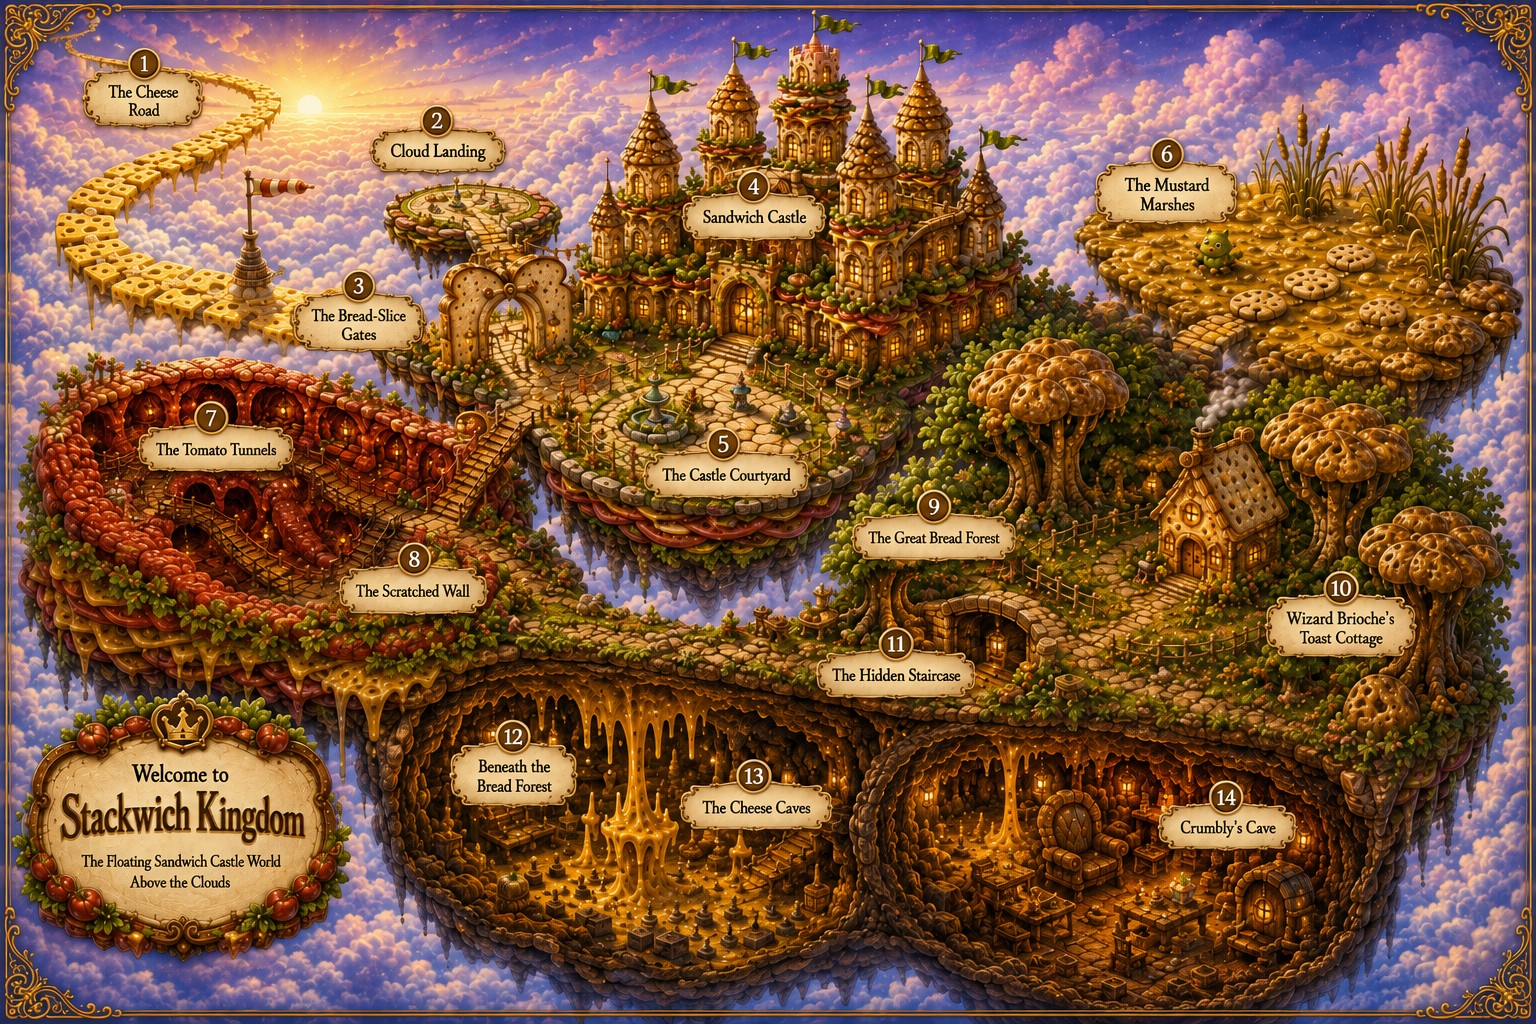
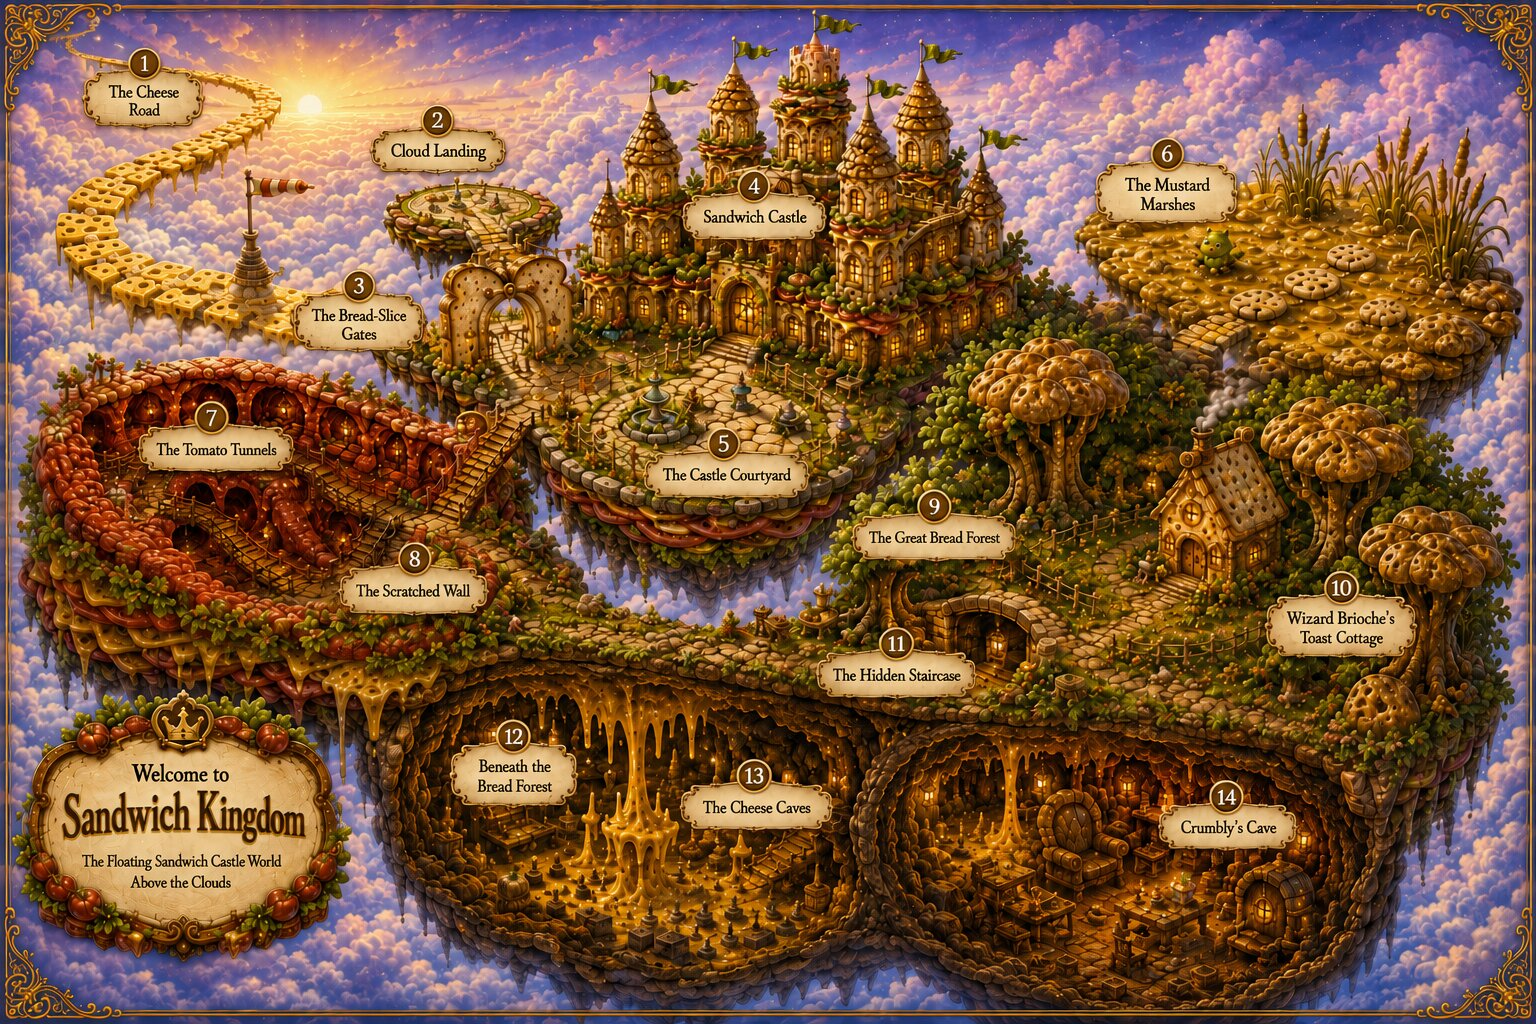
Add the full storyworld character cast

diff --git a/src/data/worldCharacters.js b/src/data/worldCharacters.js
@@ -1,0 +1,59 @@
+export const SNACKVILLE_LEGENDS = {
+  image: "/images/characters/worlds/snackville-legends.webp",
+  alt: "Pepper, Choco, the Custard Queen and Ice Cream Robots gathered in Snackville",
+  eyebrow: "Beyond the Snack Squad",
+  title: "Dragons, royalty and robots",
+  lead: "Every Piper adventure brings another unforgettable face into Snackville.",
+  people: [
+    { name: "Pepper", role: "Pizza Dragon", note: "A fearless golden-orange flyer with warm pizza-fire magic." },
+    { name: "Choco", role: "Chocolate Dragon", note: "The cocoa-scaled dragon whose home lies beyond the Chocolate Volcano." },
+    { name: "Custard Queen", role: "Royal visitor", note: "A generous queen with a crown, a custard sceptre and a kingdom to protect." },
+    { name: "Ice Cream Robots", role: "Frozen friends", note: "Scoop-headed robots waking deep inside the shimmering Ice Cream Caves." },
+  ],
+};
+
+export const CRUMBHOLLOW_CAST = {
+  image: "/images/characters/worlds/crumbhollow-crew.webp",
+  alt: "Woofer, Biscuit and three Pie-Rats beside the lantern-lit Crumbhollow canal",
+  eyebrow: "Meet the underground crew",
+  title: "The faces of Crumbhollow",
+  lead: "A hidden village needs a captain, a clever parrot and Pie-Rats who know every tunnel.",
+  people: [
+    { name: "Woofer", role: "Crumbhollow captain", note: "A green-furred pirate dog with a steady paw and a very sharp eye." },
+    { name: "Biscuit", role: "Biscuit parrot", note: "A crumb-feathered lookout who spots trouble before it reaches the docks." },
+    { name: "Grey Pie-Rat", role: "First mate", note: "Watchful, disciplined and rarely impressed by a careless crumb trail." },
+    { name: "Strong Pie-Rat", role: "Dockside muscle", note: "The barrel carrier who keeps Crumbhollow's busy harbour moving." },
+    { name: "Pancake Pirate", role: "Tunnel scout", note: "A small explorer whose pancake hat is known across the canals." },
+  ],
+};
+
+export const SANDWICH_CAST = [
+  {
+    image: "/images/characters/worlds/sandwich-royal-court.webp",
+    alt: "Sir Crumples, Queen Pickle, Crumbly, Wizard Brioche and the Sandwich Gate Guard",
+    eyebrow: "The royal court",
+    title: "Keepers of Sandwich Kingdom",
+    lead: "The castle's grandest characters each hold a different piece of its story.",
+    people: [
+      { name: "Sir Crumples", role: "Royal messenger", note: "A tiny, brave sandwich with a crown that never stays straight." },
+      { name: "Queen Pickle", role: "Sandwich Queen", note: "A warm and thoughtful ruler learning what true inclusion means." },
+      { name: "Crumbly", role: "Keeper beneath the castle", note: "A gentle giant who built the foundations and waited to be welcomed." },
+      { name: "Wizard Brioche", role: "Bread wizard", note: "A flour-dusted guide who knows the kingdom's forgotten history." },
+      { name: "Gate Guard", role: "Guardian of the gates", note: "A towering sandwich guard who always remembers good manners." },
+    ],
+  },
+  {
+    image: "/images/characters/worlds/sandwich-wilds.webp",
+    alt: "The Hungry Cloud, Mustard Boggle, Tomato Mice and Sandwich Kingdom citizens",
+    eyebrow: "Beyond the castle walls",
+    title: "Marshes, tunnels and cloud magic",
+    lead: "The journey crosses a kingdom full of surprising helpers — and one very hungry cloud.",
+    people: [
+      { name: "Hungry Cloud", role: "Lonely magic", note: "A giant violet cloud that becomes small and friendly when nobody is left out." },
+      { name: "Mustard Boggle", role: "Marsh guardian", note: "Huge, squishy and kind once the thorny pickle-vine is removed." },
+      { name: "Tomato Mouse Captain", role: "Tunnel leader", note: "The organised captain of a tiny tomato-red mouse patrol." },
+      { name: "Tomato Mice", role: "Tunnel residents", note: "Lantern carriers who know every secret opening beneath the forest." },
+      { name: "Sandwich Citizens", role: "Kingdom neighbours", note: "Builders, cooks, elders and children who repair the Togetherstone together." },
+    ],
+  },
+];

diff --git a/src/styles/components.css b/src/styles/components.css
@@ -417,3 +417,39 @@
 @media (max-width:640px){
   .sound-toggle--snackville{bottom:88px;right:14px;width:42px;height:42px}
 }
+
+/* ─── world character atlases ──────────────────────────────────────
+   One cinematic illustration introduces a cast, while the compact
+   field-guide cards keep every name and role readable without turning
+   the page into a wall of near-identical portrait tiles. */
+.character-atlas{padding-block:clamp(54px,8vw,104px)}
+.character-atlas__heading{max-width:790px;margin:0 auto clamp(24px,4vw,42px);text-align:center}
+.character-atlas__heading .h2{margin-top:12px;font-size:clamp(40px,6vw,70px);text-wrap:balance}
+.character-atlas__heading .lead{margin:16px auto 0;max-width:58ch;font-weight:400}
+.character-atlas__art{position:relative;aspect-ratio:16/9;overflow:hidden;border:1px solid rgba(216,170,88,.72);
+  border-radius:18px;background:#10162a;box-shadow:0 34px 90px rgba(0,0,0,.42),inset 0 0 0 7px rgba(216,170,88,.035)}
+.character-atlas__art::after{content:'';position:absolute;inset:8px;border:1px solid rgba(255,247,232,.35);
+  border-radius:12px;pointer-events:none}
+.character-atlas__art img{width:100%;height:100%;object-fit:cover;object-position:center;display:block}
+.character-atlas__grid{display:grid;grid-template-columns:repeat(auto-fit,minmax(205px,1fr));gap:1px;margin-top:18px;
+  border:1px solid rgba(216,170,88,.2);background:rgba(216,170,88,.2)}
+.character-atlas__person{display:grid;grid-template-columns:42px minmax(0,1fr);gap:13px;align-items:start;
+  min-height:150px;padding:20px;background:rgba(3,9,23,.91);color:var(--parchment)}
+.character-atlas__number{display:grid;place-items:center;width:40px;height:40px;border:1px solid rgba(243,208,138,.58);
+  border-radius:50%;color:var(--gold-bright);font-size:15px}
+.character-atlas__person h3{color:var(--parchment);font-size:24px;line-height:1.02}
+.character-atlas__role{margin-top:6px;color:var(--gold-bright);font-size:10px;line-height:1.3;letter-spacing:.1em;text-transform:uppercase}
+.character-atlas__note{margin-top:10px;color:rgba(247,236,215,.67);font-size:14px;line-height:1.5}
+.snackville-legends{padding-bottom:clamp(34px,5vw,72px)}
+.world-experience__characters{padding-inline:clamp(16px,4vw,32px)}
+.world-experience__characters+.world-experience__characters .character-atlas{padding-top:0}
+
+@media (max-width:640px){
+  .character-atlas{padding-block:48px}
+  .character-atlas__heading .h2{font-size:clamp(38px,12vw,52px)}
+  .character-atlas__art{margin-inline:-5px;border-radius:12px}
+  .character-atlas__art::after{inset:6px;border-radius:7px}
+  .character-atlas__grid{grid-template-columns:1fr}
+  .character-atlas__person{min-height:0;padding:17px}
+  .world-experience__characters{padding-inline:12px}
+}

diff --git a/tests/content.test.js b/tests/content.test.js
@@ -13,6 +13,8 @@ import { SANDWICH_PLACES } from "../src/data/sandwich.js";
 import { CRUMBHOLLOW_PLACES } from "../src/data/crumbhollow.js";
 import { PRINTABLES } from "../src/data/printables.js";
 import { floodFill } from "../src/lib/floodFill.js";
+import { ASSET } from "../src/config.js";
+import { CRUMBHOLLOW_CAST, SANDWICH_CAST, SNACKVILLE_LEGENDS } from "../src/data/worldCharacters.js";
 
 test("content identifiers remain unique", () => {
   for (const collection of [BOOKS, CAST, PLACES, TREASURES, SECTIONS]) {
@@ -72,6 +74,35 @@ test("the publishing showcase uses local optimised artwork", () => {
     assert.ok(existsSync(new URL(`../public${spread.img}`, import.meta.url)), `page ${spread.page} exists`);
     assert.ok(spread.t.length > 20);
   }
+});
+
+test("each storyworld exposes its approved character cast", () => {
+  assert.deepEqual(
+    SNACKVILLE_LEGENDS.people.map((person) => person.name),
+    ["Pepper", "Choco", "Custard Queen", "Ice Cream Robots"]
+  );
+  assert.deepEqual(
+    CRUMBHOLLOW_CAST.people.map((person) => person.name),
+    ["Woofer", "Biscuit", "Grey Pie-Rat", "Strong Pie-Rat", "Pancake Pirate"]
+  );
+  assert.deepEqual(
+    SANDWICH_CAST.flatMap((feature) => feature.people.map((person) => person.name)),
+    ["Sir Crumples", "Queen Pickle", "Crumbly", "Wizard Brioche", "Gate Guard", "Hungry Cloud", "Mustard Boggle", "Tomato Mouse Captain", "Tomato Mice", "Sandwich Citizens"]
+  );
+
+  for (const feature of [SNACKVILLE_LEGENDS, CRUMBHOLLOW_CAST, ...SANDWICH_CAST]) {
+    assert.match(feature.image, /^\/images\/characters\/worlds\/.+\.webp$/);
+    assert.ok(existsSync(new URL(`../public${feature.image}`, import.meta.url)), `${feature.title} artwork exists`);
+    assert.ok(feature.people.every((person) => person.note.length > 30), `${feature.title} has full character notes`);
+  }
+
+  for (const key of ["piper", "croissant", "toast", "sandwich"]) {
+    assert.match(ASSET[key], /^\/images\/characters\/snack-squad\/.+\.webp$/);
+    assert.ok(existsSync(new URL(`../public${ASSET[key]}`, import.meta.url)), `${key} approved reference exists`);
+  }
+
+  assert.ok(existsSync(new URL("../public/images/sandwich-interactive-map.jpeg", import.meta.url)), "official Sandwich Kingdom map exists");
+  assert.ok(existsSync(new URL("../public/images/worlds/sandwich-cover.webp", import.meta.url)), "official Sandwich Kingdom cover exists");
 });
 
 test("every map location has a signature effect, and no two are alike", () => {

diff --git a/src/App.jsx b/src/App.jsx
@@ -41,6 +41,8 @@ import { WorldExperience } from "./components/WorldExperience.jsx";
 import { SANDWICH_PLACES } from "./data/sandwich.js";
 import { CRUMBHOLLOW_PLACES } from "./data/crumbhollow.js";
 import { WORLD_FX } from "./data/worldFx.js";
+import { CRUMBHOLLOW_CAST, SANDWICH_CAST, SNACKVILLE_LEGENDS } from "./data/worldCharacters.js";
+import { WorldCharacters } from "./components/WorldCharacters.jsx";
 
 /**
  * The root component. Owns every piece of cross-section state:
@@ -447,6 +449,9 @@ function SnackvilleExperience({ onBackHome }) {
 
         <Story found={doneKeys} onFind={onFindTreasure} />
         <Cast found={doneKeys} onFind={onFindTreasure} onOpenCharacter={setCastIndex} chime={chime} />
+        <div className="wrap snackville-legends">
+          <WorldCharacters feature={SNACKVILLE_LEGENDS} />
+        </div>
 
         <Divider shape="hill" fill="rgba(232,222,255,.93)" />
         <section className="sec" id="join" style={{ background: "rgba(232,222,255,.93)" }}>
@@ -595,6 +600,7 @@ export default function App() {
         mapWidth="1536"
         mapHeight="1024"
         fx={WORLD_FX.sandwich}
+        characterFeatures={SANDWICH_CAST}
         onBackHome={openHome}
       />
     );
@@ -618,6 +624,7 @@ export default function App() {
         mapWidth="1536"
         mapHeight="864"
         fx={WORLD_FX.crumbhollow}
+        characterFeatures={[CRUMBHOLLOW_CAST]}
         onBackHome={openHome}
       />
     );

diff --git a/src/components/WorldExperience.jsx b/src/components/WorldExperience.jsx
@@ -1,6 +1,7 @@
 import { useCallback, useRef } from "react";
 import { WorldMap } from "./WorldMap.jsx";
 import { SoundToggle } from "./SoundToggle.jsx";
+import { WorldCharacters } from "./WorldCharacters.jsx";
 import { broadcastReaction } from "../lib/reaction.js";
 
 /**
@@ -19,7 +20,7 @@ import { broadcastReaction } from "../lib/reaction.js";
  * App.jsx — see the note in styles/wow.css for why the reaction is an
  * attribute on a root rather than a transform on a wrapper.
  */
-export function WorldExperience({ worldClass, brandLabel, title, tagline, coverSrc, coverAlt, mapEyebrow, mapHeading, mapLead, places, mapSrc, mapAlt, mapWidth, mapHeight, fx, onBackHome }) {
+export function WorldExperience({ worldClass, brandLabel, title, tagline, coverSrc, coverAlt, mapEyebrow, mapHeading, mapLead, places, mapSrc, mapAlt, mapWidth, mapHeight, fx, characterFeatures = [], onBackHome }) {
   const rootRef = useRef(null);
   const reactionTimer = useRef(null);
 
@@ -54,6 +55,12 @@ export function WorldExperience({ worldClass, brandLabel, title, tagline, coverS
             </div>
           )}
         </section>
+
+        {characterFeatures.map((feature) => (
+          <div className="world-experience__characters wrap" key={feature.title}>
+            <WorldCharacters feature={feature} />
+          </div>
+        ))}
 
         <div id="world-map" className="world-experience__map">
           <WorldMap

diff --git a/src/components/WorldCharacters.jsx b/src/components/WorldCharacters.jsx
@@ -1,0 +1,32 @@
+import { Reveal } from "./Reveal.jsx";
+
+export function WorldCharacters({ feature, className = "" }) {
+  const headingId = `character-atlas-${feature.title.replaceAll(" ", "-").toLowerCase()}`;
+
+  return (
+    <section className={`character-atlas ${className}`} aria-labelledby={headingId}>
+      <Reveal className="character-atlas__heading">
+        <div className="eyebrow on-sky-s">{feature.eyebrow}</div>
+        <h2 className="h2 on-sky" id={headingId}>{feature.title}</h2>
+        <p className="lead on-sky-s">{feature.lead}</p>
+      </Reveal>
+
+      <Reveal className="character-atlas__art">
+        <img src={feature.image} alt={feature.alt} width="1599" height="900" loading="lazy" decoding="async" />
+      </Reveal>
+
+      <div className="character-atlas__grid">
+        {feature.people.map((person, index) => (
+          <Reveal className="character-atlas__person" key={person.name} delay={index * 55}>
+            <span className="character-atlas__number d" aria-hidden="true">{String(index + 1).padStart(2, "0")}</span>
+            <div>
+              <h3 className="d">{person.name}</h3>
+              <p className="character-atlas__role u">{person.role}</p>
+              <p className="character-atlas__note">{person.note}</p>
+            </div>
+          </Reveal>
+        ))}
+      </div>
+    </section>
+  );
+}

diff --git a/src/config.js b/src/config.js
@@ -31,10 +31,10 @@ export const drive = (id, size = 900) => {
  * nothing else in the codebase should ever reference a raw Drive ID.
  */
 export const ASSET = {
-  piper: "1KdO7AHgKzJZ4ajbue7fYraTqQkJ15E9g",
-  croissant: "16vM2DV0dNeCtjZljK3OjUbCXCn9kKThC",
-  toast: "10H-IMQzxxBKtBCrOZvrYzGdIHL9mG90I",
-  sandwich: "1TYbPcPmMyH-isyzRKBCFn0vdcKDDwXon",
+  piper: "/images/characters/snack-squad/piper.webp",
+  croissant: "/images/characters/snack-squad/croissant-kitty.webp",
+  toast: "/images/characters/snack-squad/toast-kitty.webp",
+  sandwich: "/images/characters/snack-squad/sandwich-kitty.webp",
   squad: "/images/inside/custard-page-31.webp",
   map: "1D3b_j8XpcwmPWaXaaXXBd-3vhMhk759Z",
   book1: "/images/books/custard-alien-invasion.webp",
